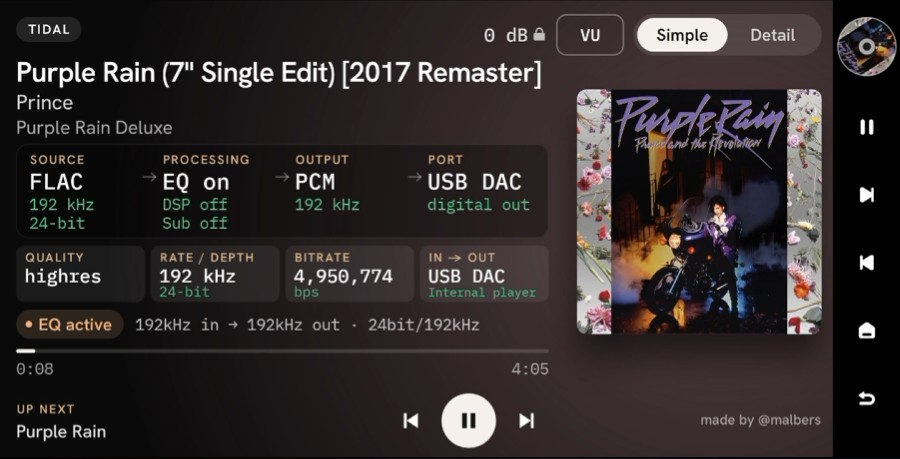
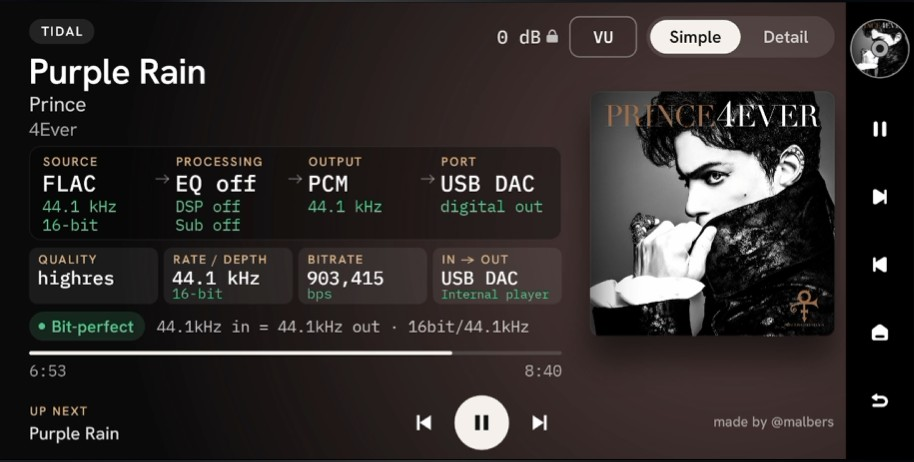
README: Simple screenshot with EQ off (bit-perfect)
Claude-Session: https://claude.ai/code/session_012mTvDEUSqrcsnv6ehQvGKv

diff --git a/README.md b/README.md
@@ -1,4 +1,4 @@
-![EverSignal Simple screen: TIDAL, FLAC 192 kHz / 24-bit, bit-perfect to the USB DAC](docs/screenshots/1-simple.jpg)
+![EverSignal Simple screen: TIDAL, FLAC 44.1 kHz / 16-bit, EQ off, bit-perfect to the USB DAC](docs/screenshots/1-simple.jpg)
 
 # EverSignal: now-playing stats for the Eversolo DMP-A6
 
